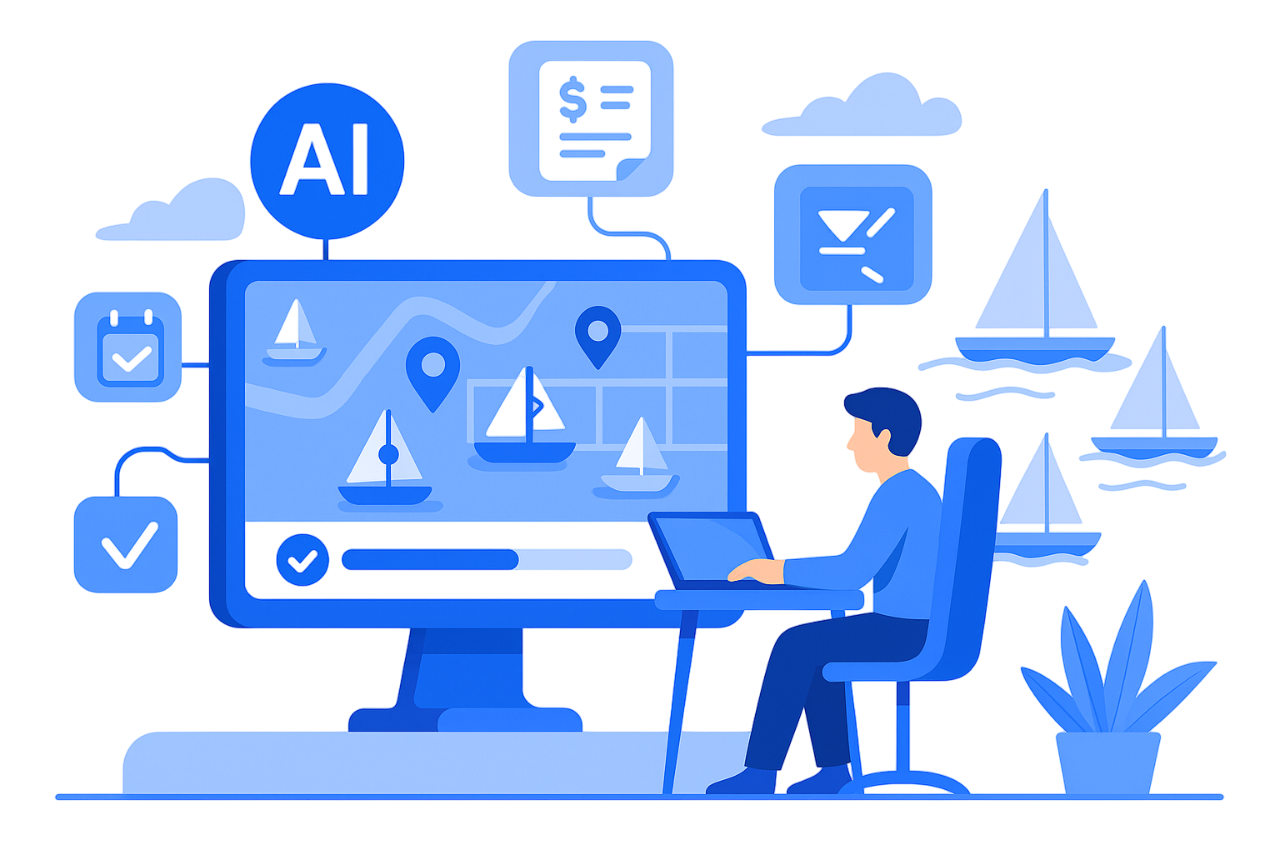
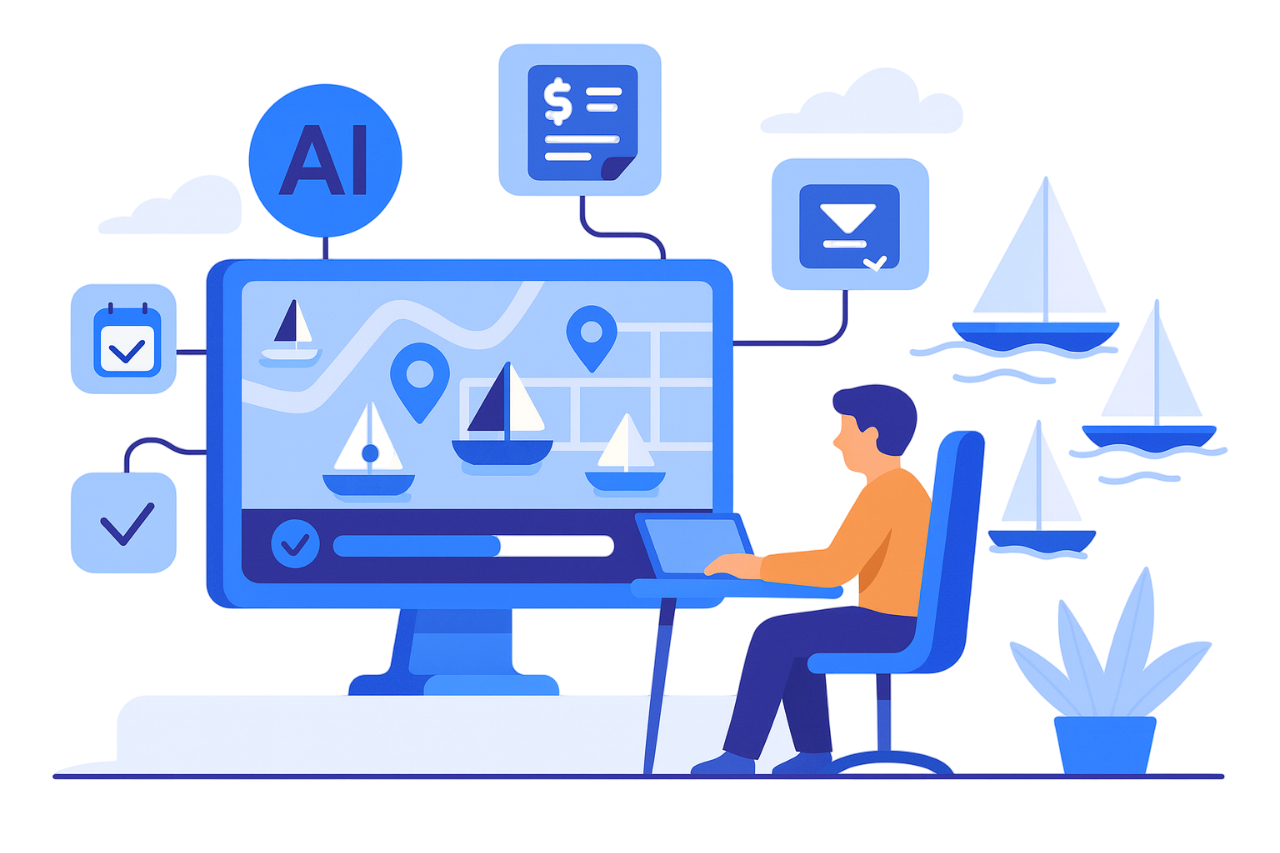
Update images for improved quality, remove unused background image, and enhance header navigation with dropdown features

diff --git a/src/components/Header.jsx b/src/components/Header.jsx
@@ -4,7 +4,7 @@ import {
   Transition,
   TransitionChild,
 } from "@headlessui/react";
-import { Menu, X } from "lucide-react";
+import { Menu as MenuIcon, X, ChevronDown } from "lucide-react";
 import { useState, useEffect } from "react";
 import { Link, useLocation, useNavigate } from "react-router-dom";
 import logo from "../assets/harbr-logo3.svg";
@@ -14,17 +14,45 @@ import { trackEvent } from "../lib/analytics";
 const navigation = [
   { name: "Home", href: "/" },
   { name: "Harbr AI", href: "/ai-marina-manager" },
-  { name: "Features", href: "/features" },
+  {
+    name: "Features",
+    href: "/features",
+    dropdown: [
+      { name: "Bookings & Berth Management", href: "/bookings-features" },
+      { name: "Finance Management", href: "/finance-management-features" },
+      {
+        name: "Online Bookings & Customer Portal",
+        href: "/online-bookings-features",
+      },
+      { name: "CRM Features", href: "/crm-features" },
+    ],
+  },
   { name: "Pricing", href: "/pricing" },
   { name: "Blog", href: "/blog" },
 ];
 
 export default function Header() {
   const [mobileMenuOpen, setMobileMenuOpen] = useState(false);
+  const [hoveredDropdown, setHoveredDropdown] = useState(null);
   const [hasScrolled, setHasScrolled] = useState(false);
+  const [dropdownTimeout, setDropdownTimeout] = useState(null);
   const location = useLocation();
   const navigate = useNavigate();
   const isHomePage = location.pathname === "/";
+
+  const handleDropdownEnter = (itemName) => {
+    if (dropdownTimeout) {
+      clearTimeout(dropdownTimeout);
+    }
+    setHoveredDropdown(itemName);
+  };
+
+  const handleDropdownLeave = () => {
+    const timeout = setTimeout(() => {
+      setHoveredDropdown(null);
+    }, 150); // 150ms delay before hiding
+    setDropdownTimeout(timeout);
+  };
 
   useEffect(() => {
     const handleScroll = () => {
@@ -32,13 +60,15 @@ export default function Header() {
     };
 
     window.addEventListener("scroll", handleScroll);
-
     handleScroll();
 
     return () => {
       window.removeEventListener("scroll", handleScroll);
+      if (dropdownTimeout) {
+        clearTimeout(dropdownTimeout);
+      }
     };
-  }, []);
+  }, [dropdownTimeout]);
 
   const handleNavClick = (e, href) => {
     // Close mobile menu for all navigation clicks
@@ -120,22 +150,61 @@ export default function Header() {
                 className="-m-2.5 inline-flex items-center justify-center rounded-md p-2.5 text-zinc-700 hover:text-zinc-900 transition-colors duration-200 hover:bg-zinc-100/80"
               >
                 <span className="sr-only">Open main menu</span>
-                <Menu className="w-5 h-5 stroke-[1.5px]" />
+                <MenuIcon className="w-5 h-5 stroke-[1.5px]" />
               </button>
             </div>
           )}
           {navigation.length > 0 && (
             <div className="hidden lg:flex lg:gap-x-12">
-              {navigation.map((item) => (
-                <Link
-                  key={item.name}
-                  to={item.href}
-                  onClick={(e) => handleNavClick(e, item.href)}
-                  className="text-sm/6 text-zinc-600 hover:text-zinc-950"
-                >
-                  {item.name}
-                </Link>
-              ))}
+              {navigation.map((item) =>
+                item.dropdown ? (
+                  <div
+                    key={item.name}
+                    className="relative"
+                    onMouseEnter={() => handleDropdownEnter(item.name)}
+                    onMouseLeave={handleDropdownLeave}
+                  >
+                    <Link
+                      to="/features"
+                      className="flex items-center gap-x-1 text-sm/6 text-zinc-600 hover:text-zinc-950"
+                    >
+                      {item.name}
+                      <ChevronDown className="h-3 w-3" aria-hidden="true" />
+                    </Link>
+
+                    {hoveredDropdown === item.name && (
+                      <div className="absolute left-1/2 z-10 -mt-1 flex w-80 -translate-x-1/2 pt-3">
+                        <div className="w-full flex-auto overflow-hidden rounded-2xl bg-white text-sm/6 shadow-lg ring-1 ring-zinc-900/5">
+                          <div className="p-3">
+                            {item.dropdown.map((dropdownItem) => (
+                              <div
+                                key={dropdownItem.name}
+                                className="group relative rounded-lg hover:bg-zinc-50"
+                              >
+                                <Link
+                                  to={dropdownItem.href}
+                                  className="block font-semibold text-zinc-900 px-3 py-2 w-full"
+                                >
+                                  {dropdownItem.name}
+                                </Link>
+                              </div>
+                            ))}
+                          </div>
+                        </div>
+                      </div>
+                    )}
+                  </div>
+                ) : (
+                  <Link
+                    key={item.name}
+                    to={item.href}
+                    onClick={(e) => handleNavClick(e, item.href)}
+                    className="text-sm/6 text-zinc-600 hover:text-zinc-950"
+                  >
+                    {item.name}
+                  </Link>
+                )
+              )}
             </div>
           )}
         </nav>
@@ -200,16 +269,38 @@ export default function Header() {
                       <div className="mt-6 flow-root">
                         <div className="-my-6 divide-y divide-zinc-500/10">
                           <div className="space-y-2 py-6">
-                            {navigation.map((item) => (
-                              <Link
-                                key={item.name}
-                                to={item.href}
-                                onClick={(e) => handleNavClick(e, item.href)}
-                                className="-mx-3 block rounded-lg px-3 py-2 text-base/7 text-zinc-900 hover:bg-zinc-50"
-                              >
-                                {item.name}
-                              </Link>
-                            ))}
+                            {navigation.map((item) =>
+                              item.dropdown ? (
+                                <div key={item.name}>
+                                  <div className="-mx-3 block rounded-lg px-3 py-2 text-base/7 font-semibold text-zinc-900">
+                                    {item.name}
+                                  </div>
+                                  <div className="ml-4 space-y-1">
+                                    {item.dropdown.map((dropdownItem) => (
+                                      <Link
+                                        key={dropdownItem.name}
+                                        to={dropdownItem.href}
+                                        onClick={(e) =>
+                                          handleNavClick(e, dropdownItem.href)
+                                        }
+                                        className="-mx-3 block rounded-lg px-3 py-1.5 text-sm/6 text-zinc-600 hover:bg-zinc-50"
+                                      >
+                                        {dropdownItem.name}
+                                      </Link>
+                                    ))}
+                                  </div>
+                                </div>
+                              ) : (
+                                <Link
+                                  key={item.name}
+                                  to={item.href}
+                                  onClick={(e) => handleNavClick(e, item.href)}
+                                  className="-mx-3 block rounded-lg px-3 py-2 text-base/7 text-zinc-900 hover:bg-zinc-50"
+                                >
+                                  {item.name}
+                                </Link>
+                              )
+                            )}
                           </div>
                         </div>
                       </div>

diff --git a/src/pages/Pricing.jsx b/src/pages/Pricing.jsx
@@ -67,7 +67,7 @@ export default function Pricing() {
               <Reveal delay={0.3}>
                 <div
                   className="bg-white rounded-2xl overflow-hidden h-full shadow-lg"
-                  style={{ border: "2px solid #5371FF" }}
+                  style={{ border: "1px solid #5371FF" }}
                 >
                   <div className="p-4 sm:p-6 h-full flex flex-col">
                     <div className="flex-grow">
@@ -80,7 +80,7 @@ export default function Pricing() {
                     </div>
                     <div className="text-center bg-zinc-50 p-3 sm:p-4 -mx-4 sm:-mx-6 -mb-4 sm:-mb-6">
                       <p className="text-lg sm:text-xl md:text-2xl font-normal tracking-[-0.02em] text-black">
-                        AUD 99 /mo
+                        $ 99 /mo
                       </p>
                     </div>
                   </div>
@@ -91,7 +91,7 @@ export default function Pricing() {
               <Reveal delay={0.4}>
                 <div
                   className="bg-white rounded-2xl overflow-hidden h-full shadow-lg"
-                  style={{ border: "2px solid #5371FF" }}
+                  style={{ border: "1px solid #5371FF" }}
                 >
                   <div className="p-4 sm:p-6 h-full flex flex-col">
                     <div className="flex-grow">
@@ -104,7 +104,7 @@ export default function Pricing() {
                     </div>
                     <div className="text-center bg-zinc-50 p-3 sm:p-4 -mx-4 sm:-mx-6 -mb-4 sm:-mb-6">
                       <p className="text-lg sm:text-xl md:text-2xl font-normal tracking-[-0.02em] text-black">
-                        AUD 299 /mo
+                        $ 299 /mo
                       </p>
                     </div>
                   </div>
@@ -115,7 +115,7 @@ export default function Pricing() {
               <Reveal delay={0.5}>
                 <div
                   className="bg-white rounded-2xl overflow-hidden h-full shadow-lg"
-                  style={{ border: "2px solid #5371FF" }}
+                  style={{ border: "1px solid #5371FF" }}
                 >
                   <div className="p-4 sm:p-6 h-full flex flex-col">
                     <div className="flex-grow">
@@ -128,7 +128,7 @@ export default function Pricing() {
                     </div>
                     <div className="text-center bg-zinc-50 p-3 sm:p-4 -mx-4 sm:-mx-6 -mb-4 sm:-mb-6">
                       <p className="text-lg sm:text-xl md:text-2xl font-normal tracking-[-0.02em] text-black">
-                        AUD 499 /mo onwards
+                        $ 499 /mo onwards
                       </p>
                     </div>
                   </div>

diff --git a/src/components/IntroVideo.jsx b/src/components/IntroVideo.jsx
@@ -130,13 +130,17 @@ export default function IntroVideo() {
 
               <div className="mt-6 hidden sm:block">
                 <Reveal delay={0.25} className="mt-10">
-                  <EmailSubscriptionForm
-                    source="intro_video_section"
-                    buttonText="Get started for free"
-                    placeholder="Enter your business email"
-                    className="max-w-lg"
-                    feedbackClassName="bg-opacity-90 backdrop-blur-sm max-w-lg"
-                  />
+                  <div className="max-w-lg">
+                    <EmailSubscriptionForm
+                      source="intro_video_section"
+                      buttonText="Get started for free"
+                      placeholder="Enter your business email"
+                      className=""
+                      formClassName="bg-zinc-50 border border-zinc-200"
+                      inputClassName="bg-white"
+                      buttonClassName=""
+                    />
+                  </div>
                 </Reveal>
               </div>
             </div>
@@ -146,13 +150,17 @@ export default function IntroVideo() {
         {/* Mobile form outside image */}
         <div className="sm:hidden mt-6 bg-zinc-50 p-6 rounded-2xl shadow-sm border border-zinc-100 ">
           <Reveal delay={0.25} className="mt-10">
-            <EmailSubscriptionForm
-              source="intro_video_section"
-              buttonText="Get started for free"
-              placeholder="Enter your business email"
-              className="max-w-sm mx-auto"
-              feedbackClassName="max-w-sm"
-            />
+            <div className="max-w-sm mx-auto">
+              <EmailSubscriptionForm
+                source="intro_video_section"
+                buttonText="Get started for free"
+                placeholder="Enter your business email"
+                className=""
+                formClassName="bg-zinc-50 border border-zinc-200"
+                inputClassName="bg-white"
+                buttonClassName=""
+              />
+            </div>
           </Reveal>
         </div>
       </div>

diff --git a/src/pages/BlogPost.jsx b/src/pages/BlogPost.jsx
@@ -404,7 +404,7 @@ export default function BlogPost() {
                   <img
                     src="/blog-images/v-sheet.png"
                     alt="SOS Morse Code Signal - Three dots, three dashes, three dots"
-                    className="w-1/2 h-auto rounded-lg shadow-md mb-6 mx-auto"
+                    className="w-1/4 h-auto rounded-lg shadow-md mb-6 mx-auto"
                   />
                 </div>
                 <p className="text-zinc-700 leading-relaxed mb-6 text-base lg:text-lg">
@@ -419,7 +419,7 @@ export default function BlogPost() {
                   <img
                     src="/blog-images/arm-signals.png"
                     alt="SOS Morse Code Signal - Three dots, three dashes, three dots"
-                    className="w-1/2 h-auto rounded-lg shadow-md mb-6 mx-auto"
+                    className="w-1/4 h-auto rounded-lg shadow-md mb-6 mx-auto"
                   />
                 </div>
                 <p className="text-zinc-700 leading-relaxed mb-6 text-base lg:text-lg">

diff --git a/src/components/Pricing.jsx b/src/components/Pricing.jsx
@@ -6,15 +6,15 @@ export default function Pricing() {
   const pricingTiers = [
     {
       range: "Up to 20",
-      price: "AUD 99 /mo",
+      price: "$ 99 /mo",
     },
     {
       range: "21 to 100",
-      price: "AUD 299 /mo",
+      price: "$ 299 /mo",
     },
     {
       range: "100+",
-      price: "AUD 499 /mo onwards",
+      price: "$ 499 /mo onwards",
     },
   ];
 
@@ -72,7 +72,7 @@ export default function Pricing() {
                   <div
                     key={tier.range}
                     className="bg-zinc-50 rounded-2xl overflow-hidden h-full shadow-lg"
-                    style={{ border: "2px solid #5371FF" }}
+                    style={{ border: "1px solid #5371FF" }}
                   >
                     <div className="p-4 sm:p-6 h-full flex flex-col">
                       <div className="flex-grow">
